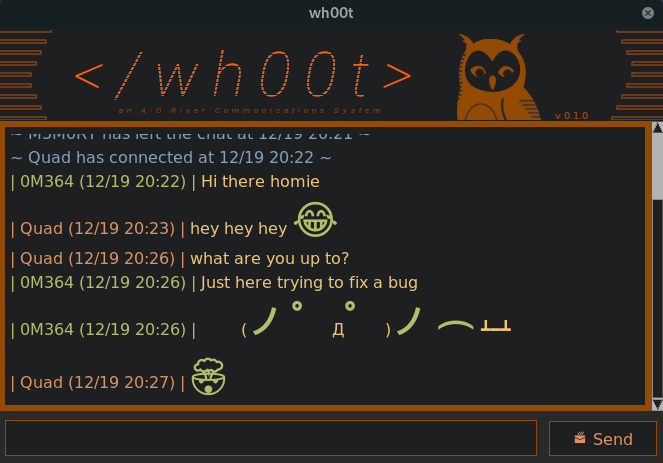
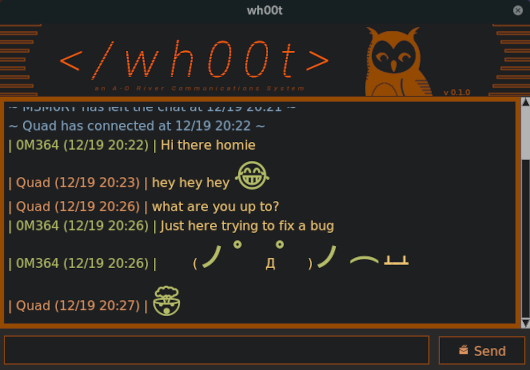
docs(client): client commands & message editing

diff --git a/README.rst b/README.rst
@@ -5,7 +5,7 @@ wh00t_client
 Simple python LAN chat client app with emoji support
 
 .. image:: images/wh00t_client.png
-    :scale: 50
+    :scale: 100
 
 Installation
 ------------
@@ -54,6 +54,21 @@ the message input field and hit send.
 Client Options
 ----------------------
 
+commands
+~~~~~~~~~
+The client supports an array of commands that do not get sent over as a message, but instead
+gives the user feedback and help information.  The following commands can be used:
+
+| ``/help`` : prints this help summary
+| ``/sound`` : turn notification sounds on
+| ``/noSound`` : turn notification sounds off
+| ``/notify`` : turn notification toast on
+| ``/noNotification`` : turn notification toast off
+| ``/emojis`` : print list of top used emojis
+| ``/meme {memeName}`` : sends specific meme as a message. See /memes
+| ``/memes`` : prints out a list of available meme commands
+| ``/exit`` : exits program
+
 keyboard mappings
 ~~~~~~~~~~~~~~~~~~~
 When the message input field is selected, the following keyboard bindings are in affect:
@@ -62,6 +77,14 @@ When the message input field is selected, the following keyboard bindings are in
 | ``DownKey`` : will erase text currently in the message input field
 | ``PageUp`` and ``PageDown`` : scroll, in the input message box, through a subset of quick support emojis shortcodes
 | ``EscKey`` : print the ``exit_string`` command in the message input field
+
+message editing
+~~~~~~~~~~~~~~~~~
+The client supports an array of message editing options in order to enhance message context. The following options
+are available:
+
+| ``:emoji_shortcodes:`` : inline emoji shortcodes are supported
+| ``[message_in_brackets]`` : accentuates portion of message within brackets with a larger font and custom coloring
 
 emojis
 ~~~~~~~
